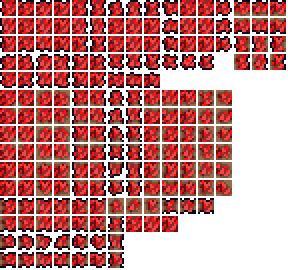
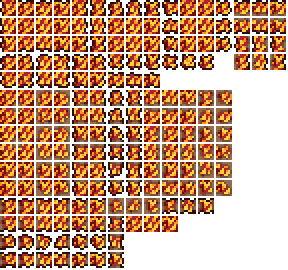
Edit Infernal related item textures

Changed region(s): [[0.0, 0.0, 1.0, 1.0]]

diff --git a/Content/Items/Weapons/InfernalSword.cs b/Content/Items/Weapons/InfernalSword.cs
@@ -1,0 +1,67 @@
+using Terraria;
+using Terraria.ModLoader;
+using Terraria.ID;
+using Terraria.GameContent.Creative;
+using Endtime.Content.Items.Placeables;
+using Microsoft.Xna.Framework;
+
+namespace Endtime.Content.Items.Weapons
+{
+  internal class InfernalSword : ModItem
+  {
+    public override void SetStaticDefaults()
+    {
+      CreativeItemSacrificesCatalog.Instance.SacrificeCountNeededByItemId[Type] = 1;
+    }
+
+    public override void SetDefaults()
+    {
+      Item.width = 60;
+      Item.height = 68;
+      Item.scale = 1.25f;
+
+      Item.useStyle = ItemUseStyleID.Swing;
+      Item.useTime = 35;
+      Item.useAnimation = 35;
+      Item.autoReuse = false;
+      Item.useTurn = false;
+
+      Item.DamageType = DamageClass.Melee;
+      Item.damage = 55;
+      Item.knockBack = 10f;
+      Item.crit = 7;
+
+      Item.value = Item.buyPrice(silver: 70);
+      Item.rare = ItemRarityID.Orange;
+
+      Item.UseSound = SoundID.Item1;
+    }
+
+    public override Color? GetAlpha(Color lightColor)
+    {
+        return Color.White;
+    }
+
+    public override void MeleeEffects(Player player, Rectangle hitbox)
+    {
+		if (Main.rand.NextBool(3))
+        {
+            Dust.NewDust(new Vector2(hitbox.X, hitbox.Y), hitbox.Width, hitbox.Height, 6);
+        }
+	}
+
+
+    public override void OnHitNPC(Player player, NPC target, int damage, float knockback, bool crit) {
+            
+      target.AddBuff(BuffID.OnFire, 300);
+    }
+
+    public override void AddRecipes()
+    {
+      CreateRecipe()
+        .AddIngredient(ModContent.ItemType<InfernalBar>(), 30)
+        .AddTile<Tiles.Furniture.ElementalAnvil>()
+        .Register();
+    }
+  }
+}
